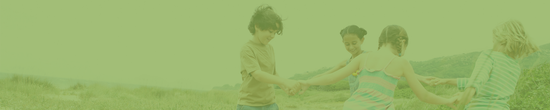
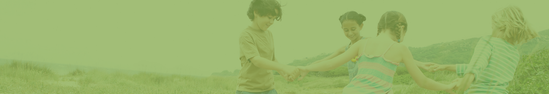
Crop header image and disable image repeat

diff --git a/assets/css/screen.css b/assets/css/screen.css
@@ -1,0 +1,84 @@
+ol {
+	font-family: 'Merriweather', serif;
+	font-size: 2.5em;
+	font-weight: bold;
+	margin: -67px 50px 25px 170px;
+}
+
+ol li {
+	display: inline;
+}
+
+h2,
+.topnav a {
+	font-family: 'Montserrat', sans-serif;
+}
+
+h3,
+p,
+.text1 li,
+footer li {
+	font-family: 'Raleway', sans-serif;
+}
+
+.text1 {
+	margin-left: 15px;
+}
+
+footer li {
+	font-size: 0.8em;
+}
+
+footer li a {
+	color: #4C6C5A;
+}
+
+.top {
+	background-blend-mode: lighten;
+	/* background-color: #D0F79B; */
+	background-color: rgba(255, 255, 255, 0.5);
+	background-image: url("/assets/img/top.png");
+	background-size: cover;
+	height: 150px;
+}
+
+.total {
+	background-color: #8BAE53;
+	border-color: #4C6C5A;
+	border-style: double;
+	border-width: thick;
+}
+
+.logo {
+	margin: 5px 0px -5px 50px;
+	padding-top: 1em;
+}
+
+.HL {
+	color: #FFFFFF;
+}
+
+.topnav {
+	background-color: #4C6C5A;
+	overflow: hidden;
+}
+
+.topnav a {
+	color: #F2F2F2;
+	float: left;
+	font-size: 17px;
+	padding: 14px 16px;
+	text-align: center;
+	text-decoration: none;
+}
+
+.topnav a:hover,
+.topnav a.active {
+	background-color: #ddd;
+	color: black;
+}
+
+.about span {
+	display: block;
+	margin-bottom: 1em;
+}
